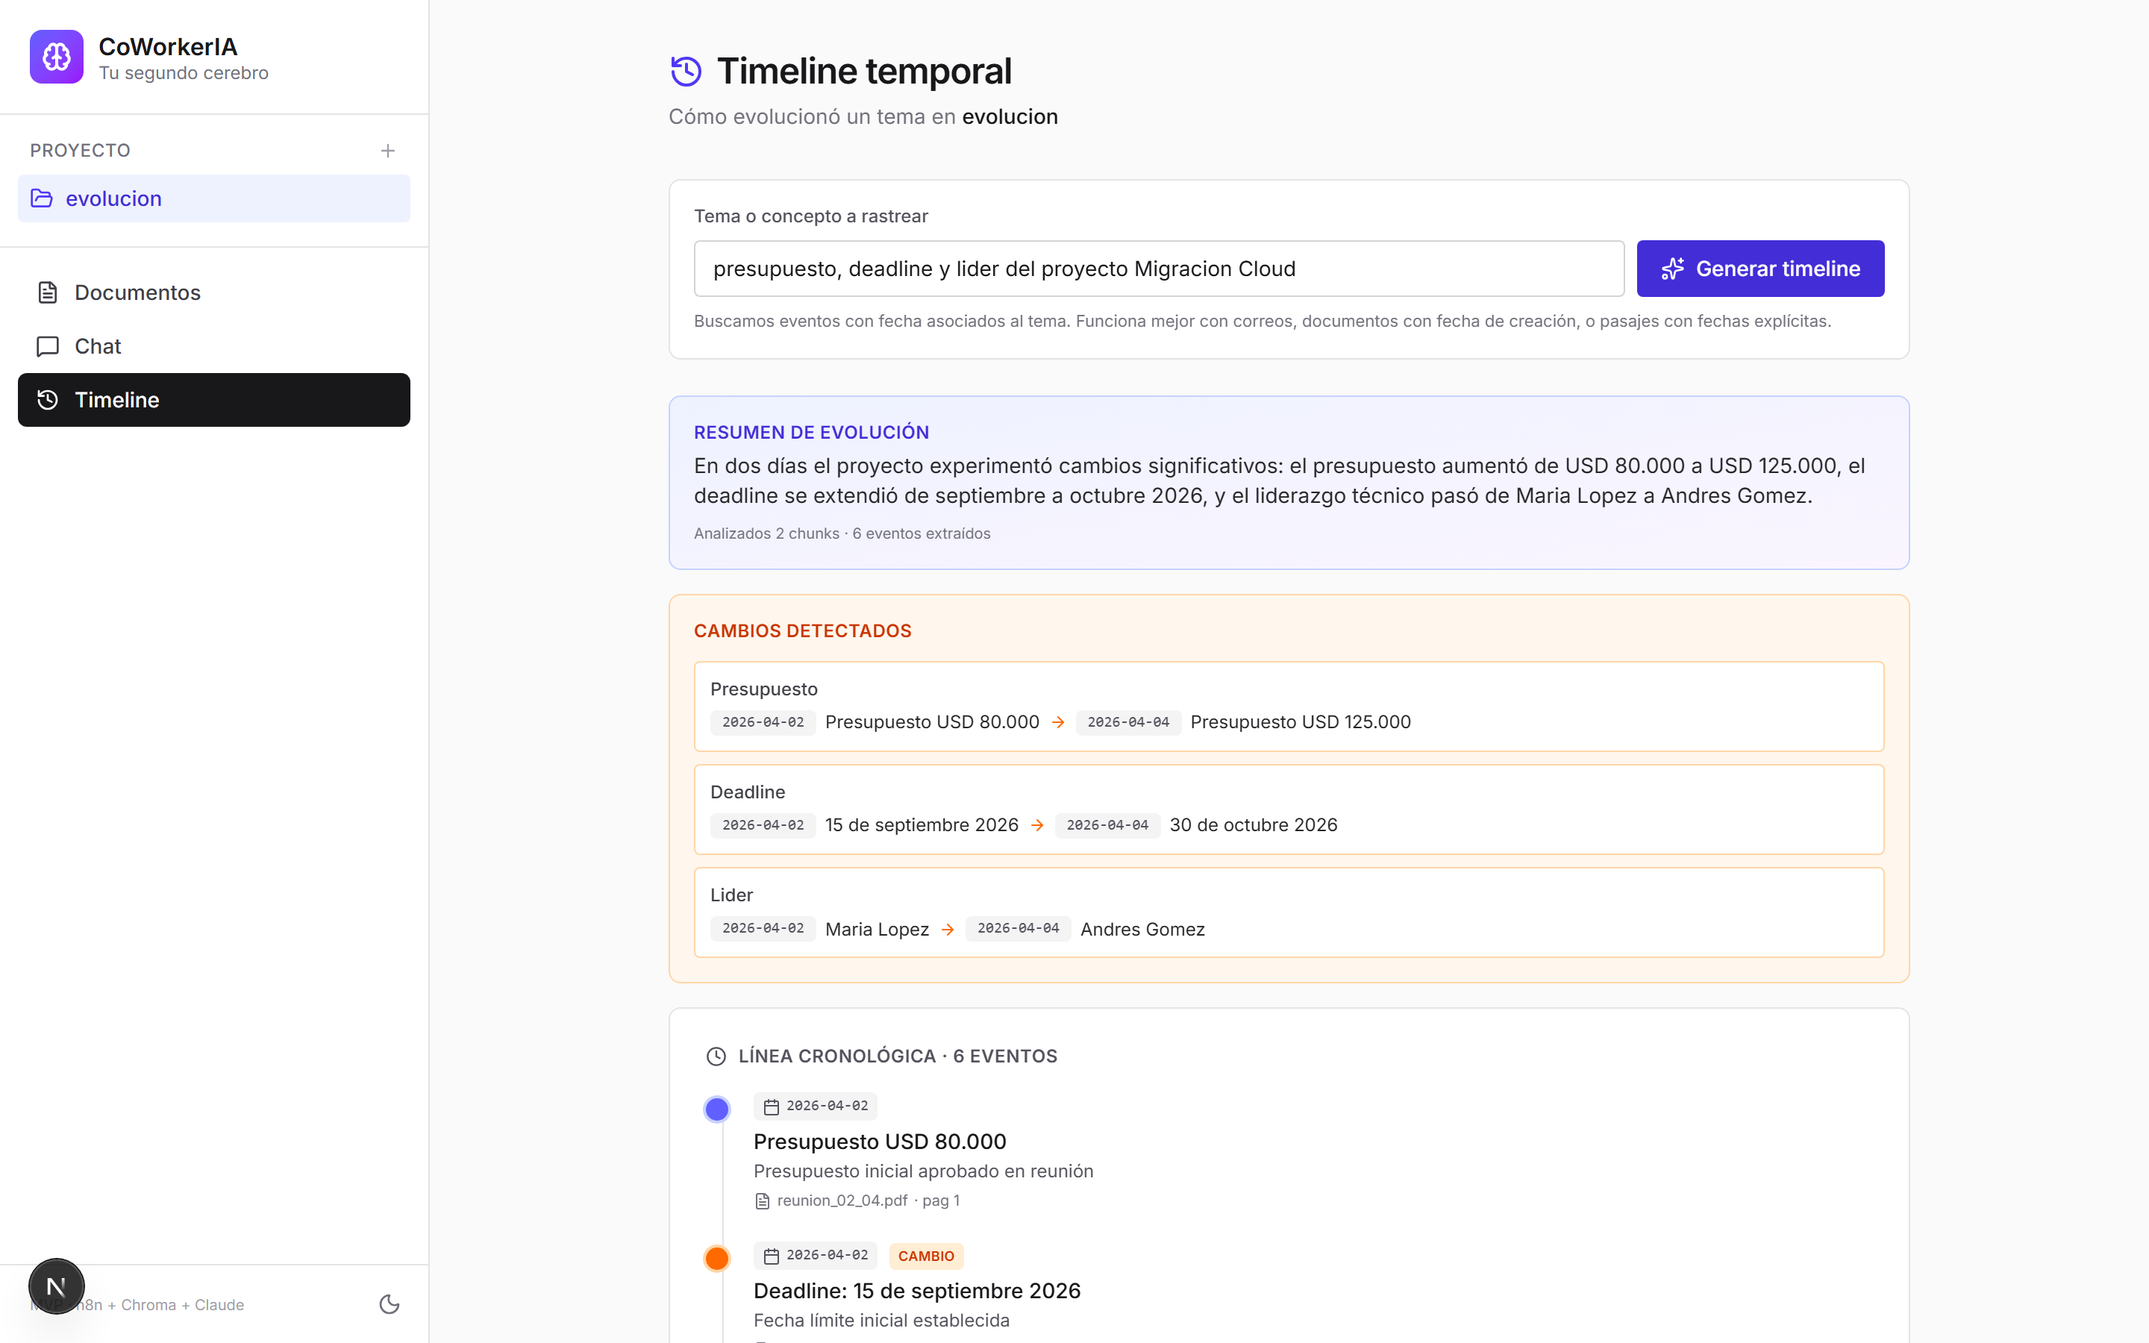
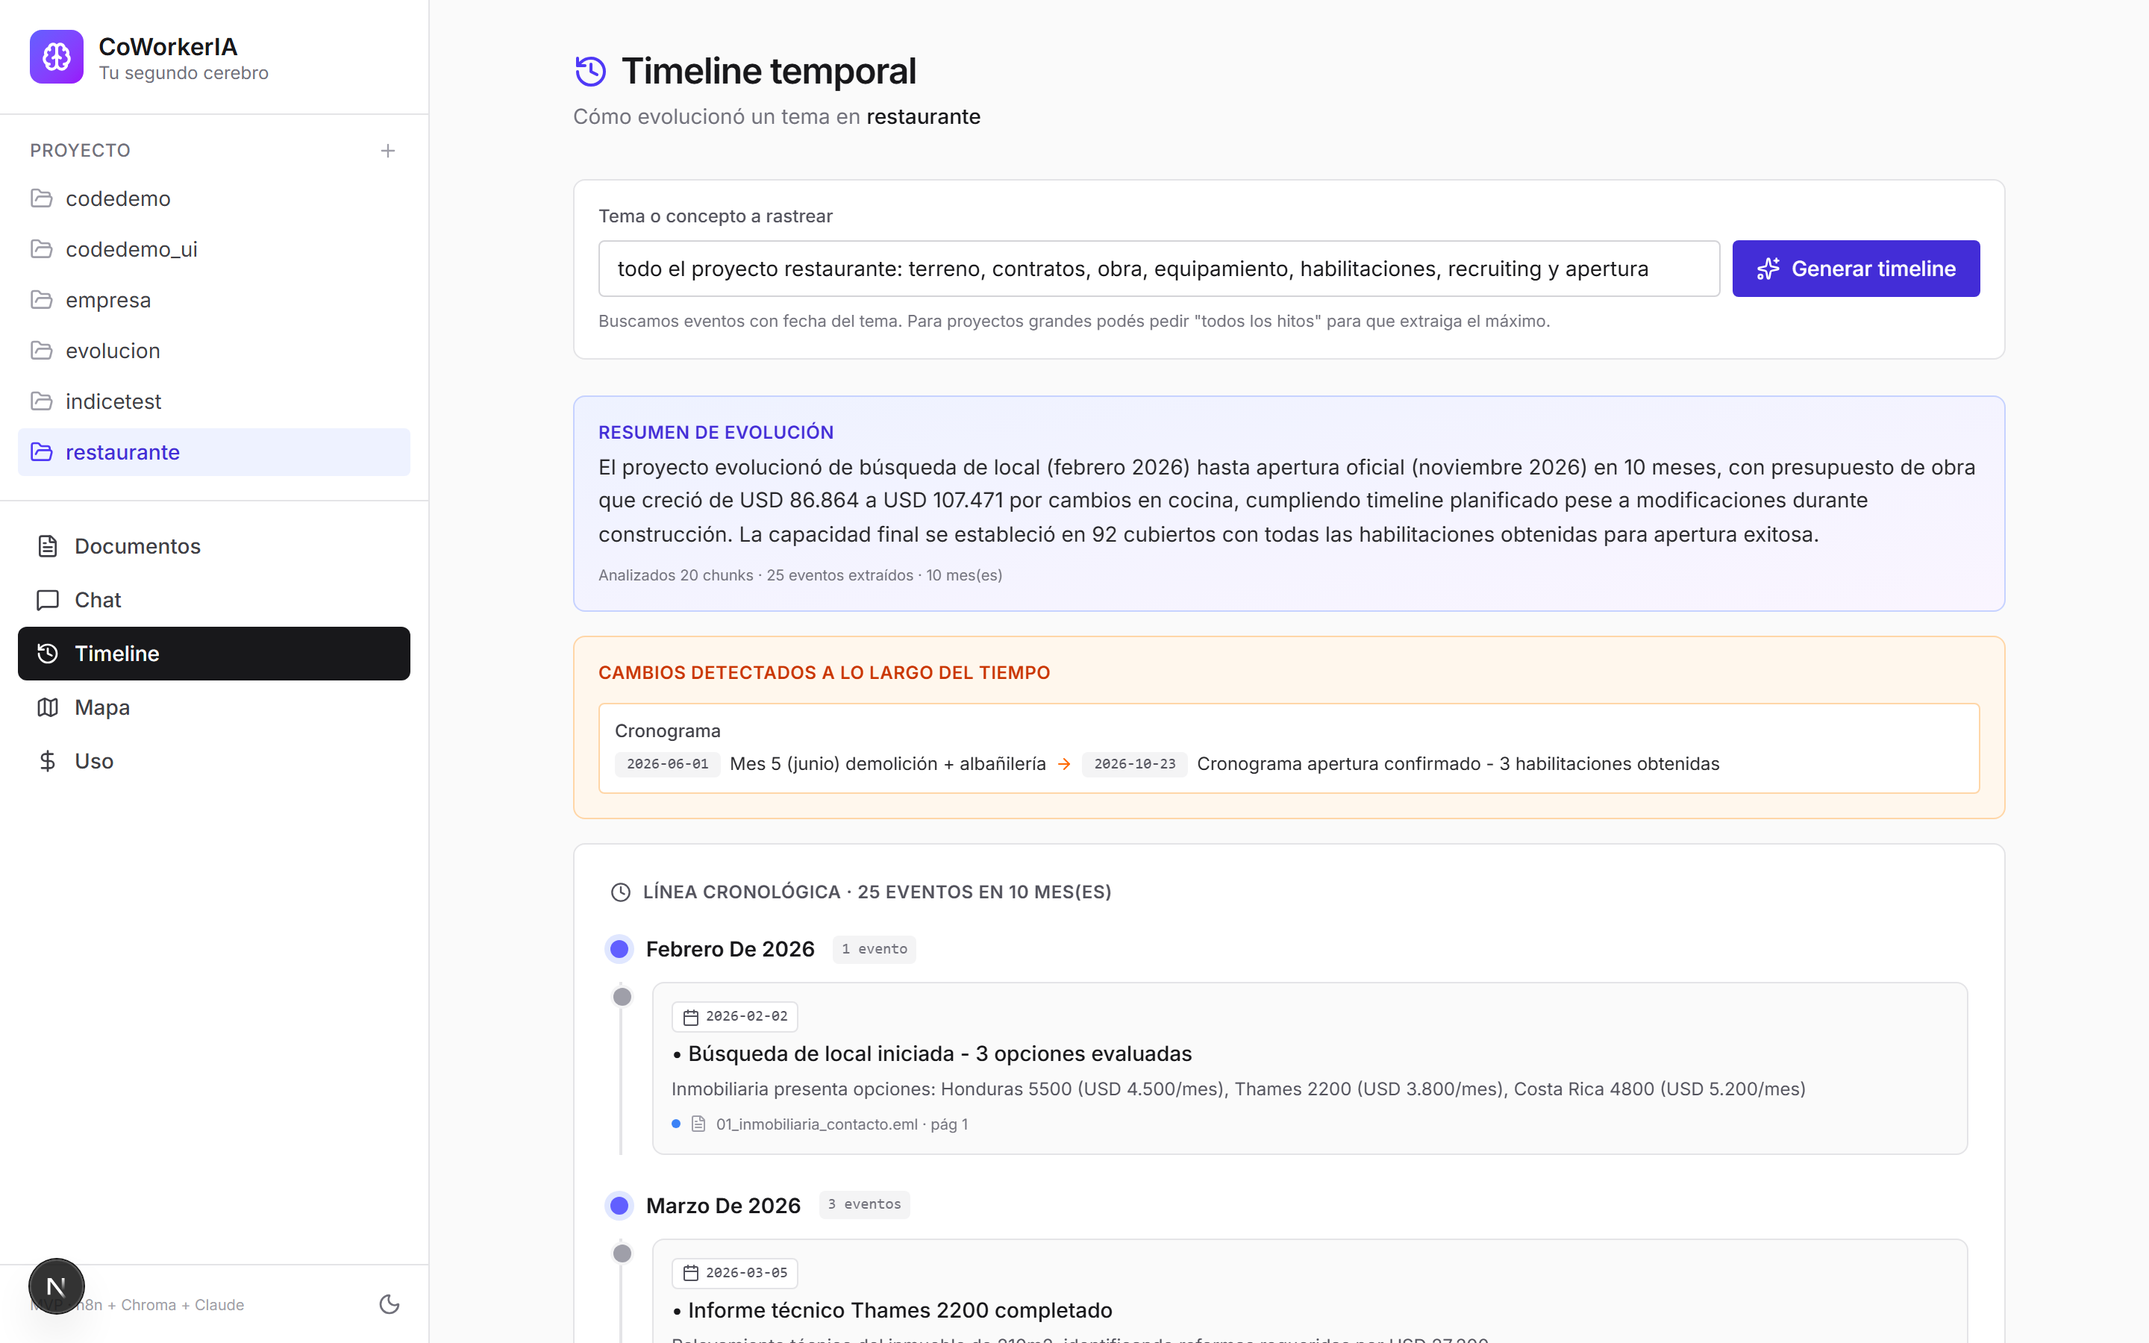
feat(timeline): mostrar TODOS los hitos agrupados por mes + bug fixes
Bug fix:
- Variable 'data' fuera de scope en timeline_temporal: extraida a
  'let usageTimeline = null' declarado antes del try
- Sin esto la respuesta JSON era invalida y el endpoint daba HTTP 500

Mejoras en el workflow timeline_temporal:
- max_tokens del LLM: 2000 -> 6000 (permite extraer 30+ eventos sin truncar)
- n_results para Chroma: 20 -> 50 (mas chunks de cobertura amplia)
- Prompt actualizado: 'Capturar TODOS los hitos importantes (decisiones,
  contratos firmados, presupuestos, cambios, hitos, entregas). No te limites
  a 5-10 - si hay 30 hitos importantes, incluye 30.' Limite tecnico 40.

UI timeline rediseñada:
- Eventos agrupados por mes con header (ej 'febrero de 2026 - 1 evento')
- Cada mes con su 'sello' visual (dot indigo + ring) seguido de los eventos
  conectados por linea vertical
- Cada evento: bullet '•' grande con valor, descripcion, fecha badge,
  archivo fuente coloreado segun tipo (PDF rojo, email azul, xlsx verde,
  docx morado, codigo amber, etc)
- Eventos marcados como 'cambio' (orange dot) si el aspecto evoluciona
  en multiples fechas
- Stats: '25 eventos en 10 meses'

Test demo restaurante:
- Proyecto con 36 documentos cubriendo 10 meses
- Pregunta amplia: 'todo el proyecto: terreno, contratos, obra,
  equipamiento, habilitaciones, recruiting y apertura'
- Extrae 25 eventos cronologicos (vs ~6 antes con el limite de 20)
- Cobertura: febrero a noviembre 2026, con detalles por mes
[…]

diff --git a/ui/src/app/timeline/page.tsx b/ui/src/app/timeline/page.tsx
@@ -23,14 +23,36 @@ type TimelineResp = {
   mensaje?: string;
 };
 
-// Detecta cambios agrupando por "aspecto" (primera palabra significativa del valor)
+// Agrupa por mes (YYYY-MM)
+function agruparPorMes(eventos: Evento[]): { mes: string; label: string; eventos: Evento[] }[] {
+  const grupos = new Map<string, Evento[]>();
+  for (const e of eventos) {
+    const mes = (e.fecha_iso || "").slice(0, 7) || "sin-fecha";
+    if (!grupos.has(mes)) grupos.set(mes, []);
+    grupos.get(mes)!.push(e);
+  }
+  const meses = Array.from(grupos.keys()).sort();
+  const formatter = new Intl.DateTimeFormat("es-AR", { year: "numeric", month: "long" });
+  return meses.map((mes) => {
+    let label = mes;
+    if (mes !== "sin-fecha" && mes.length === 7) {
+      try {
+        const d = new Date(mes + "-01T12:00:00");
+        label = formatter.format(d);
+      } catch {}
+    } else if (mes === "sin-fecha") {
+      label = "Sin fecha";
+    }
+    return { mes, label, eventos: grupos.get(mes)! };
+  });
+}
+
+// Detecta cambios agrupando por aspecto (primera palabra significativa del valor)
 function detectarCambios(eventos: Evento[]): Map<string, Evento[]> {
   const grupos = new Map<string, Evento[]>();
   for (const e of eventos) {
     const raw = String(e.valor || "");
-    // Toma la primera palabra (antes de ':' o espacio), normaliza
     let aspecto = raw.split(/[\s:]/)[0].trim().toLowerCase();
-    // Si la "aspecto" es genérica (Stack, Tipo, etc), agarra hasta 2 palabras
     if (aspecto.length < 4) {
       aspecto = raw.split(/[:]/)[0].trim().toLowerCase().slice(0, 30);
     }
@@ -39,6 +61,26 @@ function detectarCambios(eventos: Evento[]): Map<string, Evento[]> {
     grupos.get(aspecto)!.push(e);
   }
   return grupos;
+}
+
+const COLORS_TIPO_ARCHIVO: Record<string, string> = {
+  pdf: "#ef4444",
+  email: "#3b82f6",
+  xlsx: "#10b981",
+  docx: "#8b5cf6",
+  codigo: "#f59e0b",
+  imagen: "#ec4899",
+  texto: "#6366f1",
+};
+function colorPorArchivo(archivo: string): string {
+  const ext = archivo.split(".").pop()?.toLowerCase() || "";
+  if (["pdf"].includes(ext)) return COLORS_TIPO_ARCHIVO.pdf;
+  if (["eml"].includes(ext)) return COLORS_TIPO_ARCHIVO.email;
+  if (["xlsx", "xls"].includes(ext)) return COLORS_TIPO_ARCHIVO.xlsx;
+  if (["docx"].includes(ext)) return COLORS_TIPO_ARCHIVO.docx;
+  if (["py", "js", "ts", "sql", "ipynb"].includes(ext)) return COLORS_TIPO_ARCHIVO.codigo;
+  if (["png", "jpg", "jpeg", "gif"].includes(ext)) return COLORS_TIPO_ARCHIVO.imagen;
+  return COLORS_TIPO_ARCHIVO.texto;
 }
 
 export default function TimelinePage() {
@@ -70,8 +112,8 @@ export default function TimelinePage() {
   };
 
   const eventos = data?.eventos || [];
+  const porMes = agruparPorMes(eventos);
   const grupos = detectarCambios(eventos);
-  // Aspectos que tienen cambios (>1 evento con valores distintos)
   const aspectosConCambio = new Set<string>();
   grupos.forEach((evs, asp) => {
     if (evs.length > 1) {
@@ -82,18 +124,16 @@ export default function TimelinePage() {
 
   return (
     <div className="h-full overflow-y-auto">
-      <div className="max-w-4xl mx-auto p-4 sm:p-8">
-        <header className="mb-6 sm:mb-8 flex items-start justify-between gap-3 flex-wrap">
-          <div>
-            <h1 className="text-2xl font-semibold tracking-tight flex items-center gap-2">
-              <History className="w-6 h-6 text-indigo-600 dark:text-indigo-400" />
-              Timeline temporal
-            </h1>
-            <p className="text-sm text-zinc-500 dark:text-zinc-400 mt-1">
-              Cómo evolucionó un tema en{" "}
-              <span className="font-medium text-zinc-900 dark:text-zinc-100">{proyecto}</span>
-            </p>
-          </div>
+      <div className="max-w-5xl mx-auto p-4 sm:p-8">
+        <header className="mb-6 sm:mb-8">
+          <h1 className="text-2xl font-semibold tracking-tight flex items-center gap-2">
+            <History className="w-6 h-6 text-indigo-600 dark:text-indigo-400" />
+            Timeline temporal
+          </h1>
+          <p className="text-sm text-zinc-500 dark:text-zinc-400 mt-1">
+            Cómo evolucionó un tema en{" "}
+            <span className="font-medium text-zinc-900 dark:text-zinc-100">{proyecto}</span>
+          </p>
         </header>
 
         {/* Input topic */}
@@ -107,7 +147,7 @@ export default function TimelinePage() {
               value={topic}
               onChange={(e) => setTopic(e.target.value)}
               onKeyDown={(e) => e.key === "Enter" && generar()}
-              placeholder="ej: presupuesto del proyecto X, fechas de deadline, líder del equipo..."
+              placeholder='ej: "todo el proyecto restaurante" · "presupuesto y deadline" · "decisiones clave"'
               className="flex-1 min-w-[200px] px-3 py-2 text-sm rounded border border-zinc-300 dark:border-zinc-700 bg-white dark:bg-zinc-800 text-zinc-900 dark:text-zinc-100 placeholder-zinc-400 dark:placeholder-zinc-500 focus:outline-none focus:ring-2 focus:ring-indigo-500"
             />
             <button
@@ -120,7 +160,7 @@ export default function TimelinePage() {
             </button>
           </div>
           <p className="text-[11px] text-zinc-500 dark:text-zinc-400 mt-2">
-            Buscamos eventos con fecha asociados al tema. Funciona mejor con correos, documentos con fecha de creación, o pasajes con fechas explícitas.
+            Buscamos eventos con fecha del tema. Para proyectos grandes podés pedir &quot;todos los hitos&quot; para que extraiga el máximo.
           </p>
         </div>
 
@@ -139,15 +179,17 @@ export default function TimelinePage() {
 
         {data && !loading && (
           <div className="mt-6 space-y-4">
-            {/* Resumen de evolucion */}
             {data.resumen_evolucion && (
               <div className="bg-gradient-to-br from-indigo-50 to-purple-50 dark:from-indigo-950/40 dark:to-purple-950/40 border border-indigo-200 dark:border-indigo-900 rounded-lg p-4">
                 <p className="text-xs font-semibold uppercase tracking-wide text-indigo-700 dark:text-indigo-300 mb-1">
                   Resumen de evolución
                 </p>
-                <p className="text-sm text-zinc-800 dark:text-zinc-200">{data.resumen_evolucion}</p>
+                <p className="text-sm text-zinc-800 dark:text-zinc-200 leading-relaxed">
+                  {data.resumen_evolucion}
+                </p>
                 <p className="text-[10px] text-zinc-500 dark:text-zinc-400 mt-2">
-                  Analizados {data.total_chunks_analizados ?? "?"} chunks · {eventos.length} eventos extraídos
+                  Analizados {data.total_chunks_analizados ?? "?"} chunks · {eventos.length} eventos
+                  extraídos · {porMes.length} mes(es)
                 </p>
               </div>
             )}
@@ -162,7 +204,7 @@ export default function TimelinePage() {
             {aspectosConCambio.size > 0 && (
               <div className="bg-orange-50 dark:bg-orange-950/30 border border-orange-200 dark:border-orange-900 rounded-lg p-4">
                 <p className="text-xs font-semibold uppercase tracking-wide text-orange-700 dark:text-orange-300 mb-3">
-                  Cambios detectados
+                  Cambios detectados a lo largo del tiempo
                 </p>
                 <div className="space-y-2">
                   {Array.from(aspectosConCambio).map((asp) => {
@@ -196,53 +238,84 @@ export default function TimelinePage() {
               </div>
             )}
 
-            {/* Timeline vertical */}
-            {eventos.length > 0 && (
+            {/* Timeline agrupado por mes */}
+            {porMes.length > 0 && (
               <div className="bg-white dark:bg-zinc-900 border border-zinc-200 dark:border-zinc-800 rounded-lg p-4 sm:p-6">
-                <p className="text-xs font-semibold uppercase tracking-wide text-zinc-600 dark:text-zinc-400 mb-4 flex items-center gap-2">
+                <p className="text-xs font-semibold uppercase tracking-wide text-zinc-600 dark:text-zinc-400 mb-5 flex items-center gap-2">
                   <Clock className="w-3.5 h-3.5" />
-                  Línea cronológica · {eventos.length} eventos
+                  Línea cronológica · {eventos.length} eventos en {porMes.length} mes(es)
                 </p>
-                <div className="relative pl-6 sm:pl-8">
-                  {/* Línea vertical */}
-                  <div className="absolute left-[7px] sm:left-[11px] top-2 bottom-2 w-px bg-zinc-200 dark:bg-zinc-700" />
-                  {eventos.map((e, i) => {
-                    const aspecto = String(e.valor || "").split(":")[0].trim().toLowerCase();
-                    const enCambio = aspectosConCambio.has(aspecto);
-                    return (
-                      <div key={i} className="relative pb-5 last:pb-0">
-                        {/* Dot */}
-                        <div
-                          className={clsx(
-                            "absolute -left-6 sm:-left-8 top-1 w-3 sm:w-[15px] h-3 sm:h-[15px] rounded-full ring-2",
-                            enCambio
-                              ? "bg-orange-500 ring-orange-200 dark:ring-orange-900"
-                              : "bg-indigo-500 ring-indigo-200 dark:ring-indigo-900"
-                          )}
-                        />
-                        <div className="flex items-center gap-2 mb-1 flex-wrap">
-                          <span className="inline-flex items-center gap-1 text-[10px] font-mono font-medium text-zinc-600 dark:text-zinc-400 bg-zinc-100 dark:bg-zinc-800 px-1.5 py-0.5 rounded">
-                            <Calendar className="w-3 h-3" />
-                            {e.fecha}
-                          </span>
-                          {enCambio && (
-                            <span className="text-[9px] font-semibold uppercase tracking-wide text-orange-700 dark:text-orange-300 bg-orange-100 dark:bg-orange-900/40 px-1.5 py-0.5 rounded">
-                              cambio
-                            </span>
-                          )}
-                        </div>
-                        <p className="text-sm font-medium text-zinc-900 dark:text-zinc-100">{e.valor}</p>
-                        {e.descripcion && (
-                          <p className="text-xs text-zinc-600 dark:text-zinc-400 mt-0.5">{e.descripcion}</p>
-                        )}
-                        <p className="text-[10px] text-zinc-500 dark:text-zinc-500 mt-1 flex items-center gap-1">
-                          <FileText className="w-3 h-3" />
-                          {e.fuente_archivo}
-                          {e.fuente_pagina && <span>· pag {e.fuente_pagina}</span>}
-                        </p>
+
+                <div className="space-y-6">
+                  {porMes.map((grupoMes) => (
+                    <div key={grupoMes.mes}>
+                      {/* Header del mes */}
+                      <div className="flex items-center gap-3 mb-3">
+                        <div className="w-3 h-3 rounded-full bg-indigo-500 ring-4 ring-indigo-100 dark:ring-indigo-900/30" />
+                        <h3 className="text-sm font-semibold text-zinc-900 dark:text-zinc-100 capitalize">
+                          {grupoMes.label}
+                        </h3>
+                        <span className="text-[10px] text-zinc-500 dark:text-zinc-400 bg-zinc-100 dark:bg-zinc-800 px-1.5 py-0.5 rounded font-mono">
+                          {grupoMes.eventos.length} evento{grupoMes.eventos.length === 1 ? "" : "s"}
+                        </span>
                       </div>
-                    );
-                  })}
+
+                      {/* Eventos del mes */}
+                      <div className="ml-1.5 border-l-2 border-zinc-200 dark:border-zinc-700 pl-5 space-y-3">
+                        {grupoMes.eventos.map((e, i) => {
+                          const aspecto = String(e.valor || "").split(/[\s:]/)[0].trim().toLowerCase();
+                          const enCambio = aspectosConCambio.has(aspecto);
+                          const colorArchivo = colorPorArchivo(e.fuente_archivo);
+                          return (
+                            <div key={i} className="relative">
+                              {/* Dot */}
+                              <div
+                                className={clsx(
+                                  "absolute -left-[26px] top-1 w-3 h-3 rounded-full ring-2",
+                                  enCambio
+                                    ? "bg-orange-500 ring-orange-100 dark:ring-orange-900/40"
+                                    : "bg-zinc-400 dark:bg-zinc-500 ring-zinc-100 dark:ring-zinc-700"
+                                )}
+                              />
+
+                              <div className="bg-zinc-50 dark:bg-zinc-800/50 border border-zinc-200 dark:border-zinc-700 rounded-lg p-3 hover:border-zinc-300 dark:hover:border-zinc-600 transition">
+                                <div className="flex items-center gap-2 mb-1 flex-wrap">
+                                  <span className="inline-flex items-center gap-1 text-[10px] font-mono font-medium text-zinc-600 dark:text-zinc-400 bg-white dark:bg-zinc-900 px-1.5 py-0.5 rounded border border-zinc-200 dark:border-zinc-700">
+                                    <Calendar className="w-3 h-3" />
+                                    {e.fecha}
+                                  </span>
+                                  {enCambio && (
+                                    <span className="text-[9px] font-semibold uppercase tracking-wide text-orange-700 dark:text-orange-300 bg-orange-100 dark:bg-orange-900/40 px-1.5 py-0.5 rounded">
+                                      cambio
+                                    </span>
+                                  )}
+                                </div>
+                                <p className="text-sm font-medium text-zinc-900 dark:text-zinc-100">
+                                  • {e.valor}
+                                </p>
+                                {e.descripcion && (
+                                  <p className="text-xs text-zinc-600 dark:text-zinc-400 mt-1 leading-relaxed">
+                                    {e.descripcion}
+                                  </p>
+                                )}
+                                <div className="flex items-center gap-1.5 mt-1.5">
+                                  <span
+                                    className="w-1.5 h-1.5 rounded-full shrink-0"
+                                    style={{ background: colorArchivo }}
+                                  />
+                                  <FileText className="w-3 h-3 text-zinc-400 dark:text-zinc-500" />
+                                  <span className="text-[10px] text-zinc-500 dark:text-zinc-500">
+                                    {e.fuente_archivo}
+                                    {e.fuente_pagina && ` · pág ${e.fuente_pagina}`}
+                                  </span>
+                                </div>
+                              </div>
+                            </div>
+                          );
+                        })}
+                      </div>
+                    </div>
+                  ))}
                 </div>
               </div>
             )}
